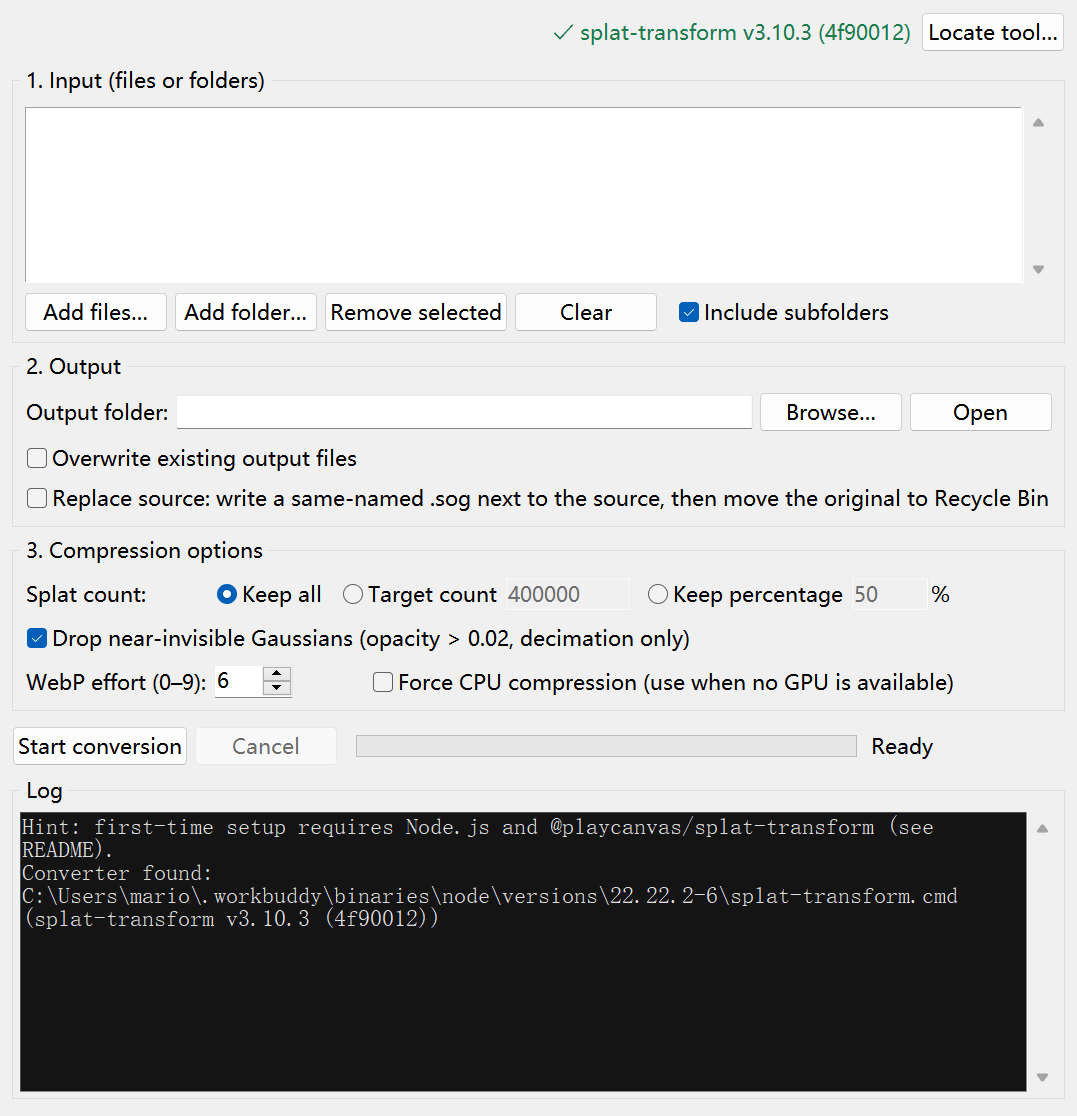
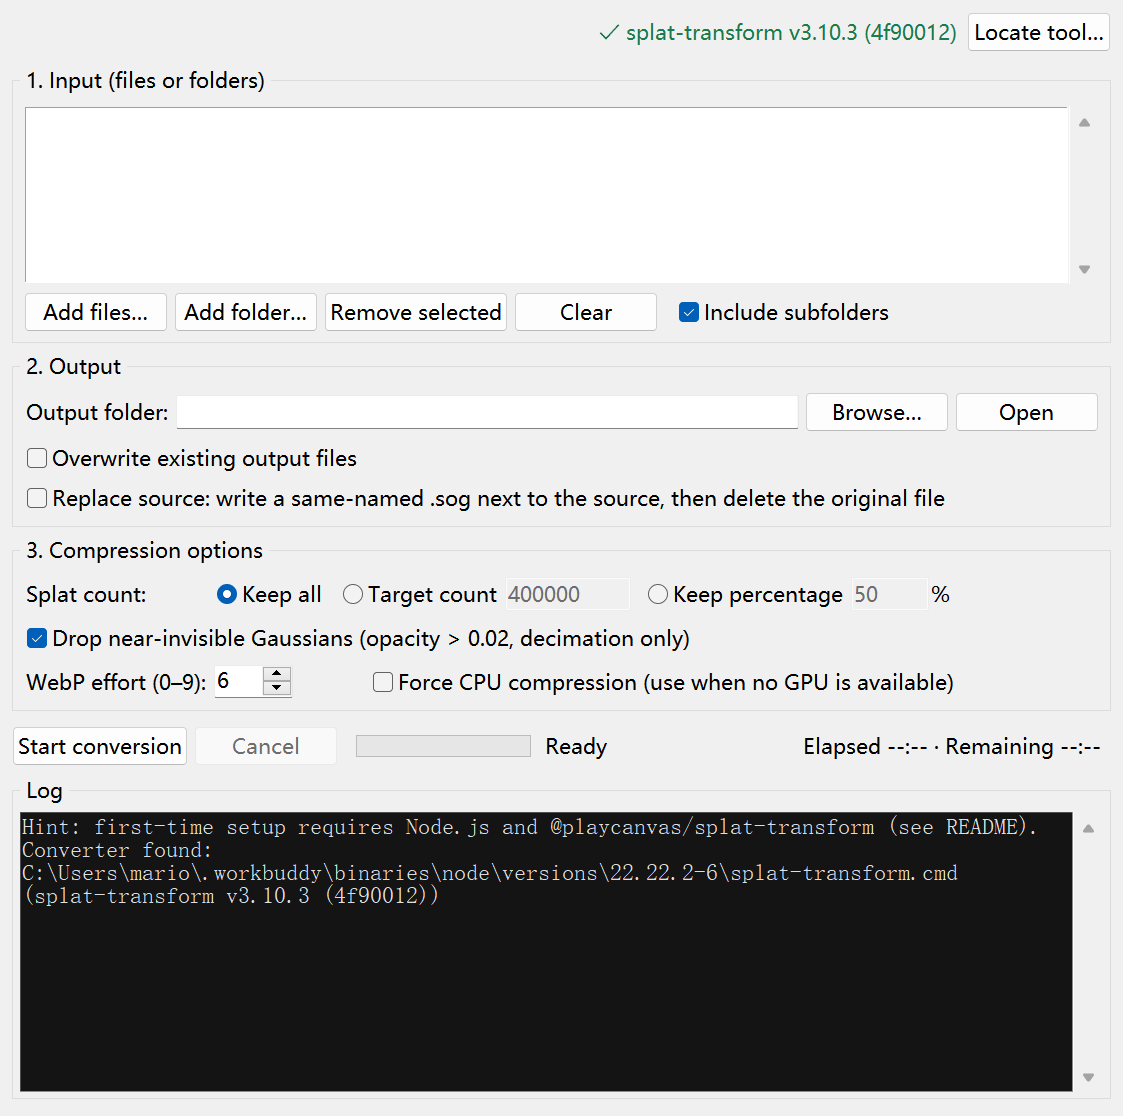
Add elapsed/remaining time display on the action row (far right)

diff --git a/sog_converter/gui.py b/sog_converter/gui.py
@@ -11,6 +11,7 @@ import os
 import queue
 import subprocess
 import sys
+import time
 import threading
 import tkinter as tk
 from pathlib import Path
@@ -36,6 +37,11 @@ class ConverterApp(tk.Tk):
         self.worker: threading.Thread | None = None
         self._replace_warned = False
         self._poll_after_id: str | None = None
+        # Time tracking for the elapsed / remaining display.
+        self._start_time: float = 0.0
+        self._done: int = 0
+        self._total: int = 0
+        self._time_after: str | None = None
 
         self._build_widgets()
         self.update_idletasks()
@@ -53,6 +59,11 @@ class ConverterApp(tk.Tk):
         if self._poll_after_id is not None:
             try:
                 self.after_cancel(self._poll_after_id)
+            except tk.TclError:
+                pass
+        if self._time_after is not None:
+            try:
+                self.after_cancel(self._time_after)
             except tk.TclError:
                 pass
         self.destroy()
@@ -229,6 +240,9 @@ class ConverterApp(tk.Tk):
         self.cancel_button.pack(side=tk.LEFT, padx=6)
         self.progress = ttk.Progressbar(actions, mode="determinate")
         self.progress.pack(side=tk.LEFT, fill=tk.X, expand=True, padx=12)
+        self.time_var = tk.StringVar(value=i18n.t("time_idle"))
+        ttk.Label(actions, textvariable=self.time_var, width=30,
+                  anchor="e").pack(side=tk.RIGHT, padx=(0, 8))
         self.status_var = tk.StringVar(value=i18n.t("status_ready"))
         ttk.Label(actions, textvariable=self.status_var, width=16).pack(side=tk.RIGHT)
 
@@ -438,6 +452,13 @@ class ConverterApp(tk.Tk):
         self.progress.configure(value=0, maximum=len(jobs))
         self.status_var.set(i18n.t("status_running"))
 
+        # Start the elapsed / remaining time display.
+        self._start_time = time.time()
+        self._done = 0
+        self._total = len(jobs)
+        self._update_time()
+        self._time_after = self.after(1000, self._tick_time)
+
         cli = self.cli
         self.worker = threading.Thread(
             target=self._worker, args=(jobs, opts, cli), daemon=True
@@ -477,14 +498,20 @@ class ConverterApp(tk.Tk):
                     self._log(str(payload))
                 elif kind == "progress":
                     done, total, _ = payload
+                    self._done, self._total = done, total
                     self.progress.configure(value=done)
                     self.status_var.set(f"{done}/{total}")
+                    self._update_time()
                 elif kind == "done":
                     self._finish(payload)
                 elif kind == "cancelled":
+                    self._total = self._done
+                    self._update_time()
                     self._log(i18n.t("log_cancelled"))
                     self._reset_buttons(i18n.t("status_cancelled"))
                 elif kind == "fatal":
+                    self._total = self._done
+                    self._update_time()
                     self._log(i18n.t("log_error", message=payload))
                     messagebox.showerror(self.title_text, str(payload))
                     self._reset_buttons(i18n.t("status_error"))
@@ -493,6 +520,8 @@ class ConverterApp(tk.Tk):
         self._poll_after_id = self.after(80, self._poll_queue)
 
     def _finish(self, report: core.Report) -> None:
+        self._done = report.total
+        self._update_time()
         self._log(i18n.t("log_finish", converted=report.converted,
                          skipped=report.skipped, failed=report.failed,
                          total=report.total))
@@ -502,6 +531,38 @@ class ConverterApp(tk.Tk):
                 self.title_text, i18n.t("warn_some_failed", failed=report.failed))
         elif report.skipped and not report.converted:
             messagebox.showinfo(self.title_text, i18n.t("info_all_skipped"))
+
+    @staticmethod
+    def _fmt_duration(seconds: float) -> str:
+        """Format a duration as ``mm:ss`` or ``h:mm:ss``."""
+        seconds = int(seconds)
+        hours, rem = divmod(seconds, 3600)
+        minutes, secs = divmod(rem, 60)
+        if hours:
+            return f"{hours:d}:{minutes:02d}:{secs:02d}"
+        return f"{minutes:02d}:{secs:02d}"
+
+    def _update_time(self) -> None:
+        """Refresh the elapsed / remaining label from the tracked counters."""
+        if not self._start_time:
+            return
+        elapsed = time.time() - self._start_time
+        if self._done > 0 and self._total > 0 and self._done < self._total:
+            remain = elapsed * (self._total - self._done) / self._done
+            remain_str = self._fmt_duration(remain)
+        else:
+            remain_str = "--:--"
+        self.time_var.set(
+            i18n.t("time_format", elapsed=self._fmt_duration(elapsed), remain=remain_str)
+        )
+
+    def _tick_time(self) -> None:
+        """Re-render the time label every second while a job is running."""
+        if self.worker is not None and self.worker.is_alive():
+            self._update_time()
+            self._time_after = self.after(1000, self._tick_time)
+        else:
+            self._time_after = None
 
     def _reset_buttons(self, status: str) -> None:
         self.start_button.configure(state=tk.NORMAL)

diff --git a/sog_converter/i18n.py b/sog_converter/i18n.py
@@ -83,6 +83,8 @@ STRINGS: Dict[str, Dict[str, str]] = {
         "status_cancelled": "已取消",
         "status_error": "出错",
         "status_done": "完成",
+        "time_format": "已用 {elapsed} · 剩余 {remain}",
+        "time_idle": "已用 --:-- · 剩余 --:--",
         # ---- gui: dialogs ----
         "dlg_open_files": "选择 3DGS 文件",
         "dlg_filetypes": "3DGS 文件",
@@ -189,6 +191,8 @@ STRINGS: Dict[str, Dict[str, str]] = {
         "status_cancelled": "Cancelled",
         "status_error": "Error",
         "status_done": "Done",
+        "time_format": "Elapsed {elapsed} · Remaining {remain}",
+        "time_idle": "Elapsed --:-- · Remaining --:--",
         # ---- gui: dialogs ----
         "dlg_open_files": "Select 3DGS files",
         "dlg_filetypes": "3DGS files",
